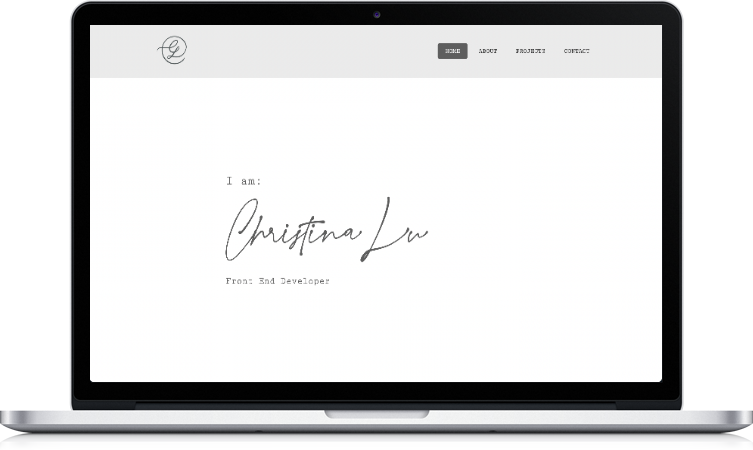
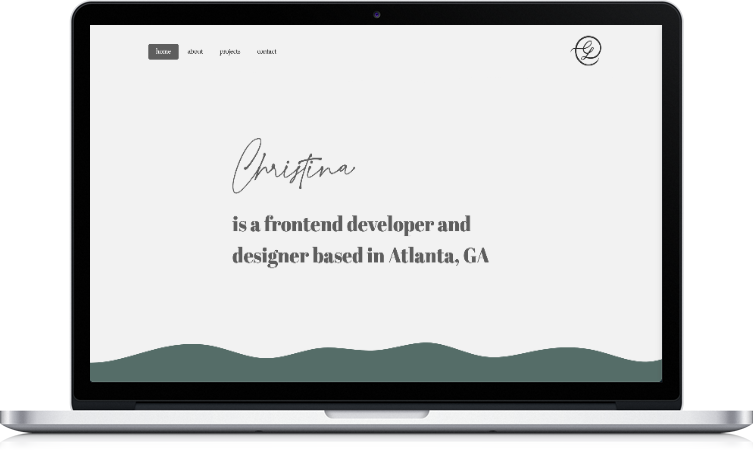
update portfolio mockup preview

diff --git a/index.html b/index.html
@@ -85,7 +85,8 @@
             </div>
       
         </section>  
-              <div class="wave-bottom"></div>
+            
+        <div class="wave-bottom"></div>
 
         <!-- PROJECTS -->
         <section id="projects"> 
@@ -94,15 +95,15 @@
             <div class="projectContainer">
                 <div class="projectCard reveal">
                     <h4>Online Portfolio</h4>
-                    <div class="tablet-project">
-                        <img src="/images/personal-portfolio-mockup.png" alt="Mockup of personal portfolio home page" class="portfolio-mockup"> 
-                        <div class="project-description">
-                            <p>I used HTML, CSS, and JavaScript and created this personal portfolio to put my frontend development knowledge to the test.</p> 
                     
-                            <p>I am constantly improving the design and user experience of this site to expand my skills in wireframing, composition, and responsive design.</p>
-                        </div>
+                    <img src="/images/personal-portfolio-mockup.png" alt="Mockup of personal portfolio home page" class="portfolio-mockup"> 
+                    <div class="project-description">
+                        <p>I used HTML, CSS, and JavaScript and created this personal portfolio to put my frontend development knowledge to the test.</p> 
+                
+                        <p>I am constantly improving the design and user experience of this site to expand my skills in wireframing, composition, and responsive design.</p>
+                        <p><em>[Mobile | Tablet | Desktop]</em></p>
                     </div>
-                    
+                  
                     <div class="project-btns">
                         <a href="https://github.com/christinalu3799/christinalu3799.github.io" target='_blank' class="project-btn">Source Code</a>
                     </div>
@@ -111,14 +112,13 @@
                 <div class="projectCard reveal">
                     <h4>Tamagotchi Game</h4>
 
-                    <div class="tablet-project">
-                        <img src="/images/tamagotchi-game-mockup.png" alt="Mockup of Tamagotchi mini-game project"> 
-                        <div class="project-description">
-                            <p>I made this simple game using HTML, CSS, and JavaScript to simulate the iconic Tamagotchi that we all know and love.
-                            Users can create their own Tamagotchi pet and interact with it using on screen buttons to keep it alive.</p>
-                        </div>
-                    </div> 
-
+                    <img src="/images/tamagotchi-game-mockup.png" alt="Mockup of Tamagotchi mini-game project"> 
+                    <div class="project-description">
+                        <p>I made this simple game using HTML, CSS, and JavaScript to simulate the iconic Tamagotchi that we all know and love.
+                        Users can create their own Tamagotchi pet and interact with it using on screen buttons to keep it alive.</p>
+                        <p><em>[Desktop Only]</em></p>
+                    </div>
+                    
                     <div class="project-btns">
                         <a href='https://christinalu.me/tamagotchi-mini-project/' target="_blank">Play Game</a>
                         <a href='https://github.com/christinalu3799/tamagotchi-mini-project' target="_blank">Source Code</a> 
@@ -127,12 +127,13 @@
                 </div>
                 <div class="projectCard reveal">
                     <h4>Racing Game</h4>
-                    <div class="tablet-project">
-                        <img src="/images/project1-mockup.png" alt="Mockup of Project 1 racing game">
-                        <div class="project-description">
-                            <p>A simple 2-player racing game made with HTML, CSS, and vanilla JavaScript. Users will move their boat mobiles using the keys on the keyboard. The goal is to avoid hitting other boatmobiles before the timer is up.</p>
-                        </div>
+        
+                    <img src="/images/project1-mockup.png" alt="Mockup of Project 1 racing game">
+                    <div class="project-description">
+                        <p>A simple 2-player racing game made with HTML, CSS, and vanilla JavaScript. Users will move their boat mobiles using the keys on the keyboard. The goal is to avoid hitting other boatmobiles before the timer is up.</p>
+                        <p><em>[Desktop Only]</em></p>
                     </div>
+                  
                     <div class="project-btns">
                         <a href="https://christinalu.me/race-to-the-krusty-krab/" target="_blank">Play Game</a>
                         <a href="https://github.com/christinalu3799/race-to-the-krusty-krab" target="_blank">Source Code</a>

diff --git a/css/styles.css b/css/styles.css
@@ -52,31 +52,6 @@ a, button {
 .animate__animated.animate__fadeInUp {
     --animate-duration: 4s;
 }
-
-.spacer {
-    aspect-ratio: 960/100;
-    width: 100%;
-    background-repeat: no-repeat;
-    background-position: center;
-    background-size: cover;
-    z-index: 11;
-}
-.wave-line {
-    aspect-ratio: 900/100;
-    width: 100vw;
-    background-repeat: no-repeat;
-    background-position: center;
-    background-size: cover;
-    background-image: url('../wave-line.svg');
-}
-.wave-line2 {
-    aspect-ratio: 900/50;
-    width: 100vw;
-    background-repeat: no-repeat;
-    background-position: center;
-    background-size: cover;
-    background-image: url('../wave-line2.svg');
-}
 .wave-nav {
     aspect-ratio: 900/250;
     width: 100vw;
@@ -88,19 +63,39 @@ a, button {
     z-index: -10;
     background-image: url('../wave-nav.svg');
 }
-
+.wave-line {
+    aspect-ratio: 900/100;
+    width: 100vw;
+    background-repeat: no-repeat;
+    background-position: center;
+    background-size: cover;
+    background-image: url('../wave-line.svg');
+}
 .wave-top {
+    aspect-ratio: 900/115;
+    width: 100vw;
+    background-repeat: no-repeat;
+    background-position: center;
+    background-size: cover;
+    z-index: 11;
     background-image: url('../wave-top.svg');
 }
 .wave-bottom {
-    aspect-ratio: 900/100;
-    width: 100%;
+    aspect-ratio: 900/115;
+    width: 100vw;
     background-repeat: no-repeat;
     background-position: center;
     background-size: cover;
     z-index: 20;
- 
     background-image: url('../wave-bottom.svg');
+}
+.wave-line2 {
+    aspect-ratio: 900/60;
+    width: 100vw;
+    background-repeat: no-repeat;
+    background-position: center;
+    background-size: cover;
+    background-image: url('../wave-line2.svg');
 }
 .wave-footer {
     aspect-ratio: 900/200;

diff --git a/css/hero.css b/css/hero.css
@@ -4,7 +4,8 @@
 #home {
     height: 65vh;
     position: relative;
-}
+    align-items: center;
+} 
 #home p {
     font-size: 1.75rem;
 }
@@ -18,6 +19,7 @@
     width: 50%;
     max-width: 1200px;
     flex-direction: column;
+    justify-content: flex-start;
     align-items: flex-start;
     z-index: -10;
 }
@@ -27,10 +29,9 @@
         width: 70%;
     }
 }
-
 @media screen and (max-width:480px) {
     #home {
-        height: 70vh;
+        height: 60vh;
     }
     #home h1.hero-name {
         font-size: 6rem;

diff --git a/css/about.css b/css/about.css
@@ -9,8 +9,8 @@
     position: relative;
     height: auto;
     background-color: #556d68;
+    width: 100vw;
 }
-
 #about .aboutMeContent{
     display: flex; 
     flex-direction: column;
